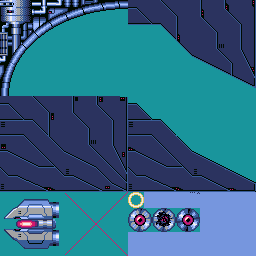
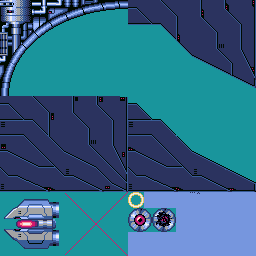
ステージ６Ｂほか

Changed region(s): [[0.6875, 0.8125, 0.7812, 0.9062]]

diff --git a/source/bossEnemybase.py b/source/bossEnemybase.py
@@ -26,10 +26,11 @@ class BossEnemybase(enemy.EnemyBase):
         self.bottom = 17
         self.hp = gcommon.HP_UNBREAKABLE
         self.layer = gcommon.C_LAYER_GRD | gcommon.C_LAYER_UNDER_GRD
-        self.hitCheck = False
-        self.shotHitCheck = False
+        self.hitCheck = True
+        self.shotHitCheck = True
         self.enemyShotCollision = False
         self.ground = True
+        self.shotEffect = False
         pyxel.image(2).load(0,0,"assets/stage_enemybase-3.png")
 
     def update(self):
@@ -58,6 +59,32 @@ class BossEnemybase(enemy.EnemyBase):
             pyxel.blt(self.x+0.5 +127.5*x, self.y -95.5 -95.5*x, 2, 0, 0, -128, 96, 3)
             pyxel.blt(self.x+0.5 +127.5*x, self.y +0.5 +95.5*x, 2, 0, 0, -128, -96, 3)
 
+    def getEllipseCollision(self, px, py):
+        x = px -127.5
+        y = py -95.5
+        a = x*x/(120*120) + y*y/(88*88)
+        return a > 1.0
+
+    # 自機弾と敵との当たり判定
+    def checkShotCollision(self, shot):
+        if self.cnt <= 90:
+            return False
+        else:
+            y = gcommon.getCenterY(shot)
+            if self.getEllipseCollision(shot.x +shot.left, y):
+                return True
+            elif self.getEllipseCollision(shot.x +shot.right, y):
+                return True
+            else:
+                return False
+
+    # 自機と敵との当たり判定
+    def checkMyShipCollision(self):
+        if self.cnt <= 90:
+            return False
+        else:
+            pos = gcommon.getCenterPos(ObjMgr.myShip)
+            return self.getEllipseCollision(pos[0], pos[1])
 
 class BossEnemybaseBody(enemy.EnemyBase):
     moveTable0 = [

diff --git a/source/bossFactory.py b/source/bossFactory.py
@@ -480,8 +480,15 @@ class BossFactory(enemy.EnemyBase):
 	def checkShotCollision(self, shot):
 		if shot.removeFlag:
 			return False
-		pos = gcommon.getCenterPos(shot)
-		return math.hypot(self.x+39.5-pos[0], self.y+39.5 -pos[1]) <40
+		# pos = gcommon.getCenterPos(shot)
+		# return math.hypot(self.x+39.5-pos[0], self.y+39.5 -pos[1]) <40
+		y = gcommon.getCenterY(shot)
+		if math.hypot(self.x+39.5-shot.x-shot.left, self.y+39.5 -y) <40:
+			return True
+		elif math.hypot(self.x+39.5-shot.x-shot.right, self.y+39.5 -y) <40:
+			return True
+		else:
+			return False
 
 	# def doShotCollision(self, shot):
 	# 	rad = math.atan2(shot.dy, shot.dx)
